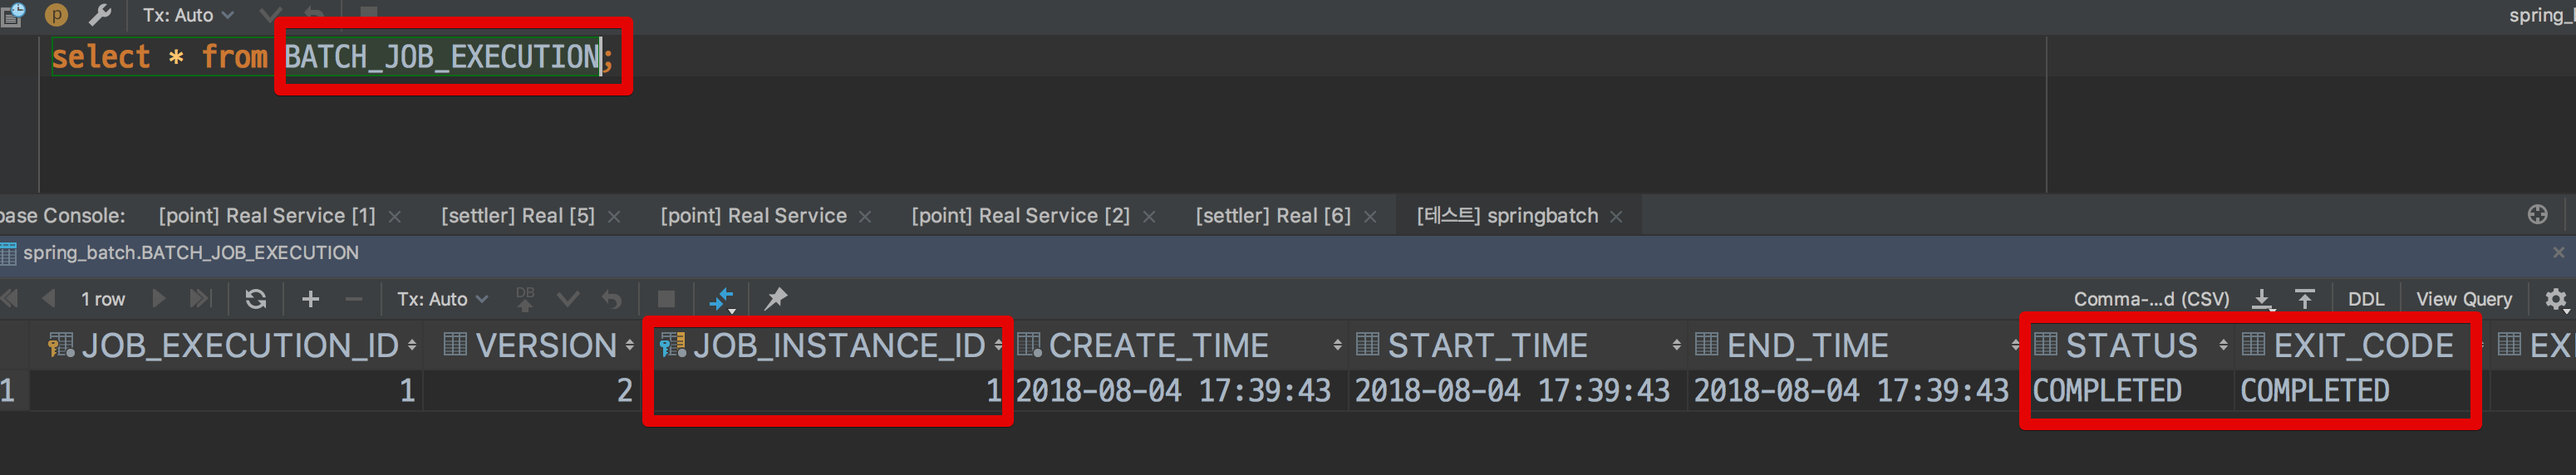
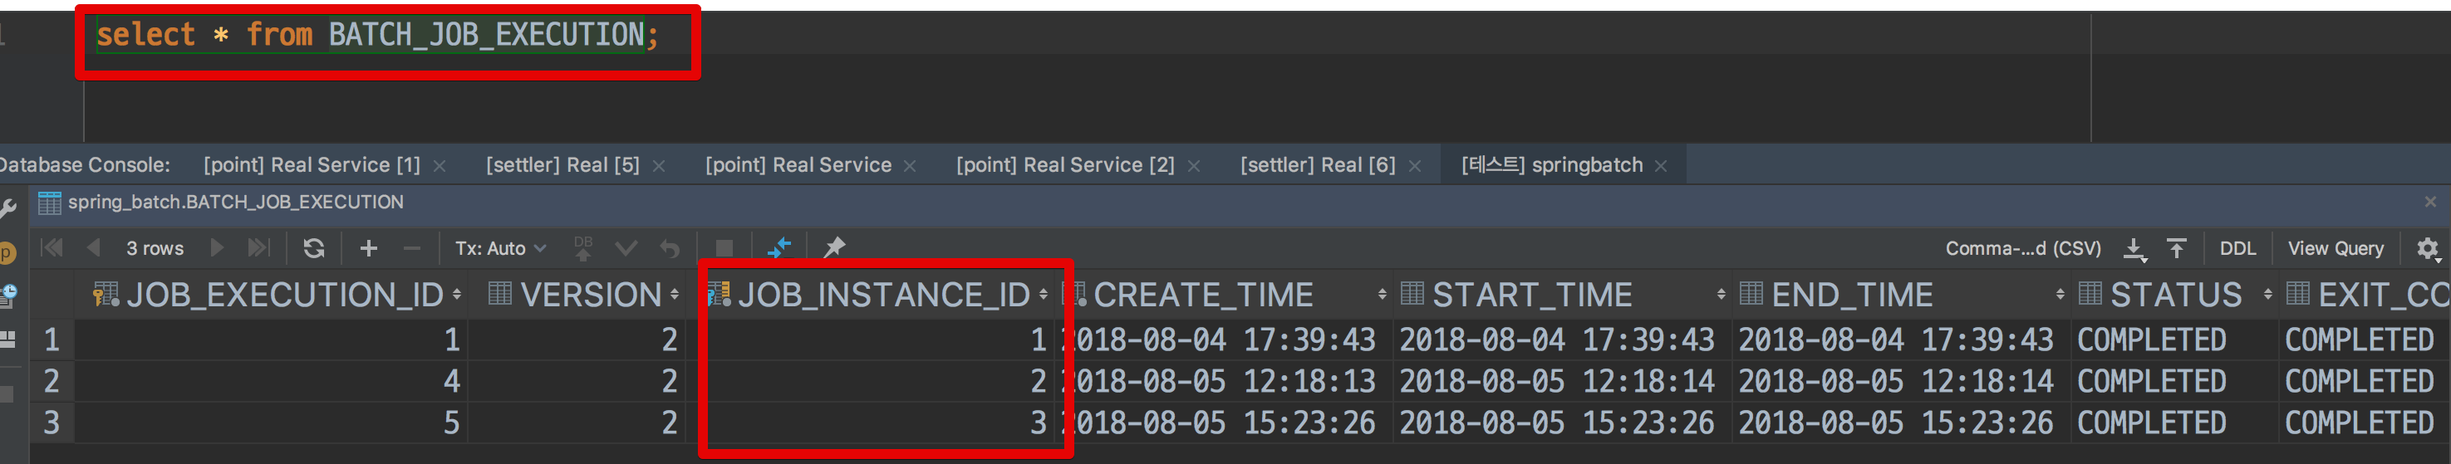
3장 완성

diff --git a/src/main/java/com/jojoldu/spring/springbatchinaction/job/SimpleJobConfiguration.java b/src/main/java/com/jojoldu/spring/springbatchinaction/job/SimpleJobConfiguration.java
@@ -5,8 +5,10 @@ import lombok.extern.slf4j.Slf4j;
 import org.springframework.batch.core.Job;
 import org.springframework.batch.core.Step;
 import org.springframework.batch.core.configuration.annotation.JobBuilderFactory;
+import org.springframework.batch.core.configuration.annotation.JobScope;
 import org.springframework.batch.core.configuration.annotation.StepBuilderFactory;
 import org.springframework.batch.repeat.RepeatStatus;
+import org.springframework.beans.factory.annotation.Value;
 import org.springframework.context.annotation.Bean;
 import org.springframework.context.annotation.Configuration;
 
@@ -26,17 +28,33 @@ public class SimpleJobConfiguration {
     @Bean
     public Job simpleJob() {
         return jobBuilderFactory.get("simpleJob")
-                .start(simpleStep1())
+                .start(simpleStep1(null))
+                .next(simpleStep2(null))
                 .build();
     }
 
     @Bean
-    public Step simpleStep1() {
+    @JobScope
+    public Step simpleStep1(@Value("#{jobParameters[requestDate]}") String requestDate) {
         return stepBuilderFactory.get("simpleStep1")
                 .tasklet((contribution, chunkContext) -> {
                     log.info(">>>>> This is Step1");
+                    log.info(">>>>> requestDate = {}", requestDate);
+                    return RepeatStatus.FINISHED;
+                })
+                .build();
+    }
+
+    @Bean
+    @JobScope
+    public Step simpleStep2(@Value("#{jobParameters[requestDate]}") String requestDate) {
+        return stepBuilderFactory.get("simpleStep2")
+                .tasklet((contribution, chunkContext) -> {
+                    log.info(">>>>> This is Step2");
+                    log.info(">>>>> requestDate = {}", requestDate);
                     return RepeatStatus.FINISHED;
                 })
                 .build();
     }
 }
+

diff --git a/3_메타테이블엿보기.md b/3_메타테이블엿보기.md
@@ -4,12 +4,16 @@
 
 > 작업한 모든 코드는 [Github](https://github.com/jojoldu/spring-batch-in-action)에 있으니 참고하시면 됩니다.  
 
-## 3-1. Spring Batch 메타 테이블 엿보기
+지난 시간에 Spring Batch의 메타 테이블을 살짝 보여드렸는데요.
 
-> 이전 시간에 실행한 MySQL용 Spring Batch 코드를 보면서 이 글을 보시면 더욱 도움이 되실것 같습니다.  
+![batchdomain](./images/3/batchdomain.png)
+
+이 메타 테이블들의 역할이 무엇인지, 어떤 것들을 담고 있는지 실습을 통해 하나씩 소개드리겠습니다.  
+
+## 3-1. BATCH_JOB_INSTANCE
 
 먼저 볼 것은 ```BATCH_JOB_INSTANCE``` 입니다.  
-본인의 MySQL에서 테이블 조회를 해보면 아래와 같이 1개의 ROW가 검색이 됩니다.기
+로컬 MySQL에서 조회를 해보면 아래와 같이 1개의 ROW가 검색이 됩니다.
 
 ![meta1](./images/3/meta1.png)
 
@@ -23,14 +27,16 @@ BATCH_JOB_INSTANCE 테이블은 **Job Parameter에 따라 생성되는 테이블
 이 Job Parameter가 생소할텐데요.  
 간단하게 말씀드리면, **Spring Batch가 실행될때 외부에서 받을 수 있는 파라미터**입니다.  
   
-예를 들어, 특정 날짜를 Job Parameter로 넘기면 Spring Batch에서는 받은 날짜의 데이터를 조회/가공/입력 등의 작업을 할 수 있습니다.  
-
+예를 들어, 특정 날짜를 Job Parameter로 넘기면 **Spring Batch에서는 해당 날짜 데이터로 조회/가공/입력 등의 작업**을 할 수 있습니다.  
+  
 같은 Batch Job 이라도 Job Parameter가 다르면 ```Batch_JOB_INSTANCE```에는 기록되며, **Job Parameter가 같다면 기록되지 않습니다**.  
   
 한번 확인해볼까요?  
 simpleJob 코드를 아래와 같이 수정합니다.
 
 ![simpleJob10](./images/3/simpleJob10.png)
+
+* ```@JobScope```를 잊으시면 안됩니다.
 
 ```java
 @Slf4j // log 사용을 위한 lombok 어노테이션
@@ -66,6 +72,8 @@ public class SimpleJobConfiguration {
 > Batch Job Parameter는 이후 챕터에서 좀 더 자세히 소개드리겠습니다.  
 지금은 메타 테이블에 대한 이해를 위한 샘플 코드이니 **이렇게 하면 Job Parameter를 사용할 수 있다 정도로만** 이해하시면 됩니다. :)
 
+변경된 코드는 Job Parameter로 받은 값을 로그에 추가로 출력시키는 기능입니다.  
+  
 자 그럼 이제 Job Parameter를 넣어서 Batch 를 실행해보겠습니다.  
 좀 전과 마찬가지로 본인의 IDE 실행환경 탭을 클릭해서 설정창으로 갑니다.
 
@@ -91,7 +99,7 @@ BATCH_JOB_INSTANCE을 다시 볼까요?
 
 ![meta1-2](./images/3/meta1-2.png)
 
-JobInstanceAlreadyCompleteException 라는 Exception과 함께 에러 메세지가 있습니다.  
+**JobInstanceAlreadyCompleteException** 라는 Exception과 함께 에러 메세지가 있습니다.  
 
 ```
 A job instance already exists and is complete for parameters={requestDate=20180805}.  If you want to run this job again, change the parameters.
@@ -107,15 +115,134 @@ A job instance already exists and is complete for parameters={requestDate=201808
 
 ![meta1-3](./images/3/meta1-3.png)
 
+즉, 동일한 Job이 Job Parameter가 달라지면 그때마다 ```BATCH_JOB_INSTANCE```에 생성되며, **동일한 Job Parameter는 여러개 존재할 수 없습니다**    .  
+  
+> 테이블 이름이 job instance 라고 되어있는제 정말 적절한 이름이 아닐까 싶습니다.  
+어떻게 보면 Java의 Class를 통해 여러 Instacne가 생성되는것과 비슷한 느낌이죠?  
+
+## 3-2. BATCH_JOB_EXECUTION
+
+다음으로 알아볼것은 ```BATCH_JOB_EXECUTION``` 테이블입니다.
+
 ![meta2](./images/3/meta2.png)
+
+JOB_EXECUTION 테이블을 보시면 3개의 ROW가 있는데요.  
+저희가 실행했던 파라미터가 없는 simpleJob, ```requestDate=20180805``` 파라미터로 실행했던 simpleJob, ```requestDate=20180806``` 파라미터로 실행했던 simpleJob 까지 이렇게 3개의 실행 데이터입니다.  
+  
+자 이렇게 보면 JOB_INSTANCE와 별 다를게 없어보이죠?  
+**JOB_EXECUTION와 JOB_INSTANCE는 부모-자식 관계**입니다.  
+JOB_EXECUTION은 자신의 부모 **JOB_INSTACNE가 성공/실패했던 모든 내역을 갖고 있습니다**.  
+한번 실습해보겠습니다.  
+  
+simpleJob 코드를 아래와 같이 변경해보겠습니다.
+
+![meta2-job1](./images/3/meta2-job1.png)
+
+```java
+@Slf4j // log 사용을 위한 lombok 어노테이션
+@RequiredArgsConstructor // 생성자 DI를 위한 lombok 어노테이션
+@Configuration
+public class SimpleJobConfiguration {
+    private final JobBuilderFactory jobBuilderFactory;
+    private final StepBuilderFactory stepBuilderFactory;
+
+    @Bean
+    public Job simpleJob() {
+        return jobBuilderFactory.get("simpleJob")
+                .start(simpleStep1(null))
+                .next(simpleStep2(null))
+                .build();
+    }
+
+    @Bean
+    @JobScope
+    public Step simpleStep1(@Value("#{jobParameters[requestDate]}") String requestDate) {
+        return stepBuilderFactory.get("simpleStep1")
+                .tasklet((contribution, chunkContext) -> {
+                    throw new IllegalArgumentException("step1에서 실패합니다.");
+                })
+                .build();
+    }
+
+    @Bean
+    @JobScope
+    public Step simpleStep2(@Value("#{jobParameters[requestDate]}") String requestDate) {
+        return stepBuilderFactory.get("simpleStep2")
+                .tasklet((contribution, chunkContext) -> {
+                    log.info(">>>>> This is Step2");
+                    log.info(">>>>> requestDate = {}", requestDate);
+                    return RepeatStatus.FINISHED;
+                })
+                .build();
+    }
+}
+```
+
+이번에는 Job Parameter를 ```requestDate=20180807``` 로 변경합니다.
+
+![meta2-job2](./images/3/meta2-job2.png)
+
+이제 실행해보시면!
+
+![meta2-job3](./images/3/meta2-job3.png)
+
+저희가 발생시킨 Exception과 함께 Batch Job이 실패했음을 볼 수 있습니다.  
+자 그럼 BATCH_JOB_EXECUTION 테이블은 어떻게 변화되었는지 볼까요?
+
+![meta2-job4](./images/3/meta2-job4.png)
+
+4번째 JOB_INSTACNE를 FK로 물고 있는 EXECUTION이 FAILED 라는 것을 확인할 수 있습니다.  
+자 그럼 코드를 수정해서 JOB을 성공시켜보겠습니다.
+
+![meta2-job5](./images/3/meta2-job5.png)
+
+변경된 코드로 다시 Batch를 실행해보면!
+
+![meta2-job6](./images/3/meta2-job6.png)
+
+JOB은 성공적으로 수행되었습니다.  
+테이블을 볼까요?
+
+![meta2-job7](./images/3/meta2-job7.png)
+
+여기가 바로 JOB_INSTANCE와 결정적인 차이인데요.  
+BATCH_JOB_EXECUTION의 JOB_INSTANCE_ID 컬럼을 보시면 같은 ID (```4```) 를 가진 2개의 ROW가 보입니다.  
+그 중 첫번째 ROW는 STATUS 가 FAILED 이지만, 2번째 ROW는 COMPLETED 입니다.  
+  
+Job Parameter ```requestDate=20180807```로 생성된 BATCH_JOB_INSTACNE (id=```4```) 가 2번 실행되었고, 첫번째는 실패, 두번째는 성공했다는 것을 알 수 있습니다.  
+  
+여기서 재밌는 것은 **동일한 Job Parameter로 2번 실행했는데 같은 파라미터로 실행되었다는 에러가 발생하지 않았다**는 점입니다.  
+Spring Batch는 **동일한 Job Parameter로 성공한 기록이 있을때만 재수행이 안된다**는 것을 알 수 있습니다.  
+  
+자 그럼 한번 정리해볼까요?
+
+## 3-3. JOB, JOB_INSTANCE, JOB_EXECUTION
+
+위에서 나온 두 테이블과 저희가 만든 Spring Batch Job의 관계를 정리하면 아래와 같습니다.
 
 ![jobschema](./images/3/jobschema.png)
 
+여기서 말하는 Job이란 저희가 작성한 Spring Batch Job을 얘기합니다.  
+  
+위 2개의 테이블 외에도 Job 관련된 테이블은 더 있습니다.  
+예를 들면 ```BATCH_JOB_EXECUTION_PARAM``` 테이블은 BATCH_JOB_EXECUTION 테이블이 생성될 당시에 입력 받은 Job Parameter를 담고 있습니다.
 
-## 2-5. Spring Batch Test 코드는?
+![meta3](./images/3/meta3.png)
+
+이외에도 다양한 메타 테이블들이 존재합니다.  
+각각의 테이블은 앞으로 과정에서 필요할때마다 추가적으로 소개드리겠습니다.
+
+> JOB_EXECUTION 외에도 **STEP_EXECUTION 관련 테이블**들이 여러개 존재합니다.  
+이 부분은 지금 다루기에는 내용이 너무 커지기 때문에 이후에 진행될 **Spring Batch 재시도/SKIP 전략**편에서 자세하게 소개 드리겠습니다.
+
+Spring Batch의 전반적인 이야기들을 3편에 나눠서 진행해봤습니다.  
+자 이제부터 본격적으로 실용적인 Spring Batch 에제와 코드를 소개드리겠습니다.  
+
+## 3-4. Spring Batch Test 코드는?
 
 저의 이전 [Spring Batch 글](http://jojoldu.tistory.com/search/batch)을 보시면 아시겠지만, 저는 Spring Batch 예제를 항상 테스트 코드로 작성했습니다.  
-그러다보니 **develop/production 환경에서 Spring Batch를 사용하시는 분들이 Batch Job Intstance Context 문제로 어려움을 겪는걸 많이 봤습니다**.  
+그러나 이 방식에 단점이 존재했는데요.  
+**develop/production 환경에서 Spring Batch를 사용하시는 분들이 Batch Job Intstance Context 문제로 어려움을 겪는걸 많이 봤습니다**.  
 Spring Batch에 적응하시기 전까지는 H2를 이용한 테스트 코드는 자제하시길 추천합니다.  
-그래서 H2를 이용한 테스트 코드는 최대한 나중에 보여드리겠습니다.  
-초반부에는 MySQL을 이용하면서 Spring Batch에 최대한 적응하시도록 진행하겠습니다.
+H2를 이용한 테스트 코드는 최대한 나중에 보여드리겠습니다.  
+초반부에는 MySQL을 이용하면서 **메타 테이블 정보가 남아 있는 상태에서의 Spring Batch에 최대한 적응하시도록 진행**하겠습니다.
